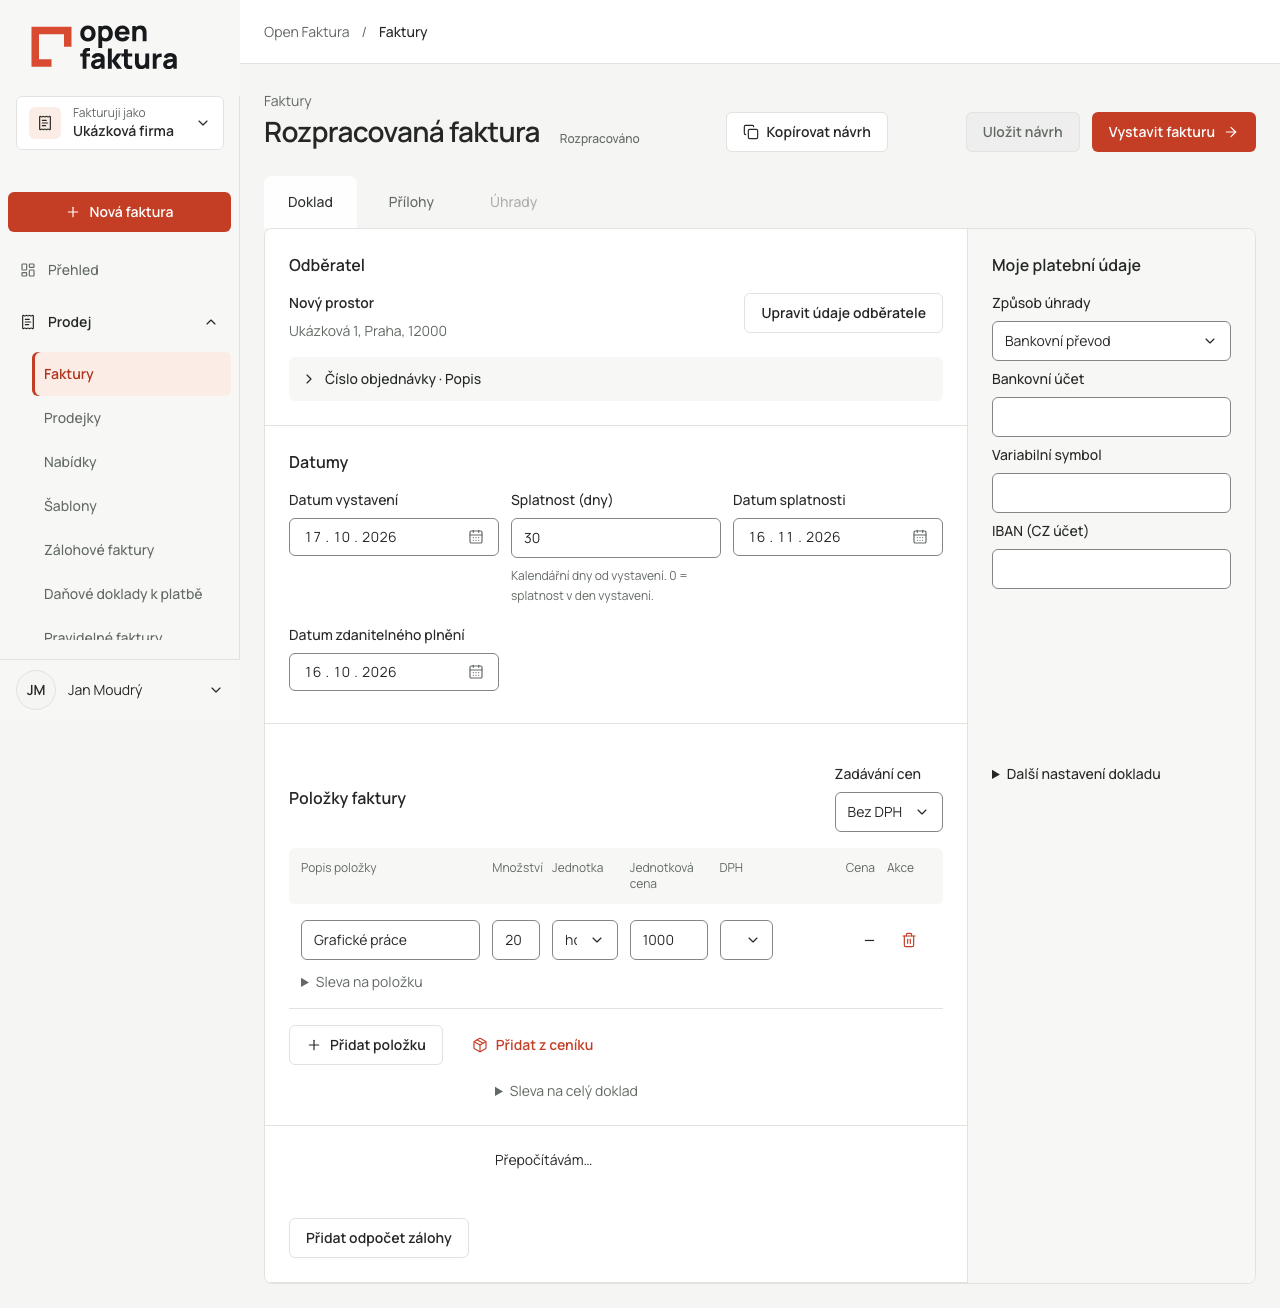
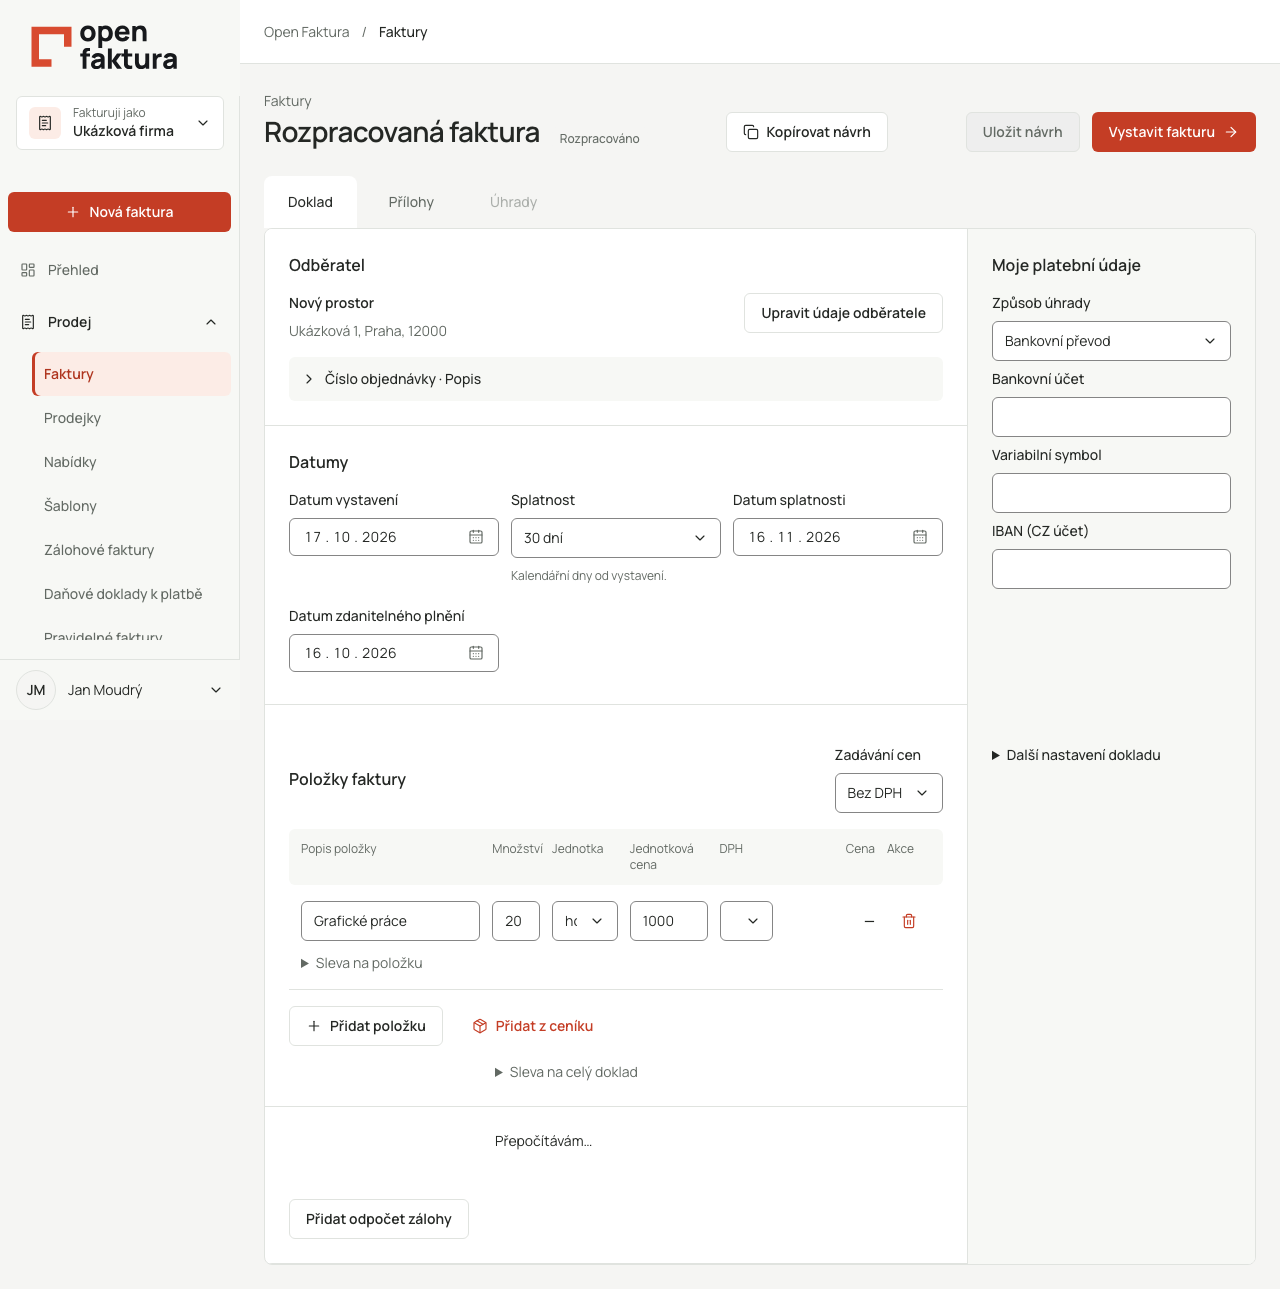
feat(web): choose invoice maturity from presets or a custom date

diff --git a/tests/e2e/redesign.spec.ts b/tests/e2e/redesign.spec.ts
@@ -55,10 +55,16 @@ for (const language of ["cs", "en"] as const) {
     );
     await page.goto("/#/companies/design/invoices/draft");
     stored = await (await response).json();
-    const days = page.getByRole("spinbutton", {
-      name: language === "cs" ? "Splatnost (dny)" : "Payment due in (days)",
-      exact: true,
+    const terms = page.getByRole("button", {
+      name: language === "cs" ? /Splatnost$/ : /Payment terms$/,
     });
+    const custom = language === "cs" ? "Vlastní datum" : "Custom date";
+    const preset = (days: number) =>
+      `${days} ${language === "cs" ? "dní" : "days"}`;
+    const choose = async (name: string) => {
+      await terms.click();
+      await page.getByRole("option", { name, exact: true }).click();
+    };
     const issued = page.locator(".ui-selection").filter({
       has: page.getByText(
         language === "cs" ? "Datum vystavení" : "Issue date",
@@ -70,22 +76,30 @@ for (const language of ["cs", "en"] as const) {
         exact: true,
       }),
     });
-    await expect(days).toHaveValue("14");
-    await days.fill("30");
+    await expect(terms).toContainText(preset(14));
+    await terms.click();
+    await expect(page.getByRole("option")).toHaveCount(6);
+    for (const days of [7, 14, 21, 30, 60])
+      await expect(
+        page.getByRole("option", { name: preset(days), exact: true }),
+      ).toBeVisible();
+    await page.getByRole("option", { name: preset(30), exact: true }).click();
     // October → November also crosses the Prague daylight-saving transition.
     await expect(due.getByRole("spinbutton").nth(0)).toHaveText("15");
     await expect(due.getByRole("spinbutton").nth(1)).toHaveText("11");
     await issued.getByRole("spinbutton").nth(0).press("ArrowUp");
-    await expect(days).toHaveValue("30");
+    await expect(terms).toContainText(preset(30));
     await expect(due.getByRole("spinbutton").nth(0)).toHaveText("16");
     await due.getByRole("spinbutton").nth(0).fill("20");
-    await expect(days).toHaveValue("34");
-    await days.fill("0");
-    await expect(due.getByRole("spinbutton").nth(0)).toHaveText("17");
-    await expect(due.getByRole("spinbutton").nth(1)).toHaveText("10");
-    await days.fill("");
-    await expect(days).toHaveValue("");
-    await days.fill("30");
+    await expect(terms).toContainText(custom);
+    // Manual entry stays custom even when it happens to match a preset.
+    await due.getByRole("spinbutton").nth(0).fill("16");
+    await expect(terms).toContainText(custom);
+    await choose(preset(30));
+    await expect(terms).toContainText(preset(30));
+    await choose(custom);
+    await expect(due.getByRole("spinbutton").nth(0)).toHaveText("16");
+    await choose(preset(30));
     await page
       .getByRole("button", {
         name: language === "cs" ? "Uložit návrh" : "Save draft",
@@ -103,7 +117,7 @@ for (const language of ["cs", "en"] as const) {
     expect(stored!.data.issued_on).toBe("2026-10-17");
     expect(stored!.data.due_on).toBe("2026-11-16");
     await page.reload();
-    await expect(days).toHaveValue("30");
+    await expect(terms).toContainText(preset(30));
     if (language === "cs" && info.project.name === "desktop")
       await page.screenshot({
         path: "docs/design/redesign-2026-10-17/invoice-maturity-days.png",
@@ -113,16 +127,16 @@ for (const language of ["cs", "en"] as const) {
     stored!.data.issued_on = "2028-02-28";
     stored!.data.due_on = "2028-03-13";
     await page.reload();
-    await expect(days).toHaveValue("14");
-    await days.fill("1");
-    await expect(due.getByRole("spinbutton").nth(0)).toHaveText("29");
-    await expect(due.getByRole("spinbutton").nth(1)).toHaveText("02");
+    await expect(terms).toContainText(preset(14));
+    await choose(preset(7));
+    await expect(due.getByRole("spinbutton").nth(0)).toHaveText("06");
+    await expect(due.getByRole("spinbutton").nth(1)).toHaveText("03");
     stored!.data.issued_on = "2026-12-31";
     stored!.data.due_on = "2027-01-14";
     await page.reload();
-    await expect(days).toHaveValue("14");
-    await days.fill("1");
-    await expect(due.getByRole("spinbutton").nth(0)).toHaveText("01");
+    await expect(terms).toContainText(preset(14));
+    await choose(preset(7));
+    await expect(due.getByRole("spinbutton").nth(0)).toHaveText("07");
     await expect(due.getByRole("spinbutton").nth(1)).toHaveText("01");
     await expect(due.getByRole("spinbutton").nth(2)).toHaveText("2027");
   });

diff --git a/apps/web/src/components/molecules/InvoicePaymentDates.tsx b/apps/web/src/components/molecules/InvoicePaymentDates.tsx
@@ -1,4 +1,5 @@
-import { DatePicker, Field } from "@open-faktura/ui";
+import { useState } from "react";
+import { DatePicker, Select } from "@open-faktura/ui";
 import { useAppTranslation } from "../../locales";
 import { addDays } from "../../utils/invoice";
 
@@ -18,6 +19,8 @@ export function InvoicePaymentDates({
   }) => void;
 }) {
   const { t } = useAppTranslation();
+  const [custom, setCustom] = useState(false);
+  const presets = [7, 14, 21, 30, 60];
   const days =
     issuedOn && dueOn
       ? Math.round(
@@ -41,27 +44,27 @@ export function InvoicePaymentDates({
           });
         }}
       />
-      <Field
-        label={t("maturityDays")}
+      <Select
+        label={t("draftMaturity")}
         hint={t("draftMaturityHint")}
-        type="number"
-        min={0}
-        step={1}
         disabled={disabled || !issuedOn}
-        value={days ?? ""}
-        onChange={(event) => {
-          if (!issuedOn) return;
-          if (event.target.value === "") {
-            onChange({ issued_on: issuedOn, due_on: null });
-            return;
-          }
-          const next = event.target.valueAsNumber;
-          const maximum = Math.floor(
-            (Date.parse("9999-12-31T12:00:00Z") -
-              Date.parse(`${issuedOn}T12:00:00Z`)) /
-              86400000,
-          );
-          if (!Number.isSafeInteger(next) || next < 0 || next > maximum) return;
+        value={
+          !custom && days !== null && presets.includes(days)
+            ? String(days)
+            : "custom"
+        }
+        options={[
+          ...presets.map((days) => ({
+            value: String(days),
+            label: t("draftMaturityDays", { days }),
+          })),
+          { value: "custom", label: t("draftMaturityCustom") },
+        ]}
+        onChange={(value) => {
+          setCustom(value === "custom");
+          if (!issuedOn || value === "custom") return;
+          const next = Number(value);
+          if (!presets.includes(next)) return;
           const due_on = addDays(issuedOn, next);
           if (due_on.length === 10) onChange({ issued_on: issuedOn, due_on });
         }}
@@ -70,9 +73,10 @@ export function InvoicePaymentDates({
         label={t("draftDue")}
         value={dueOn ?? ""}
         disabled={disabled}
-        onChange={(value) =>
-          onChange({ issued_on: issuedOn, due_on: value || null })
-        }
+        onChange={(value) => {
+          setCustom(true);
+          onChange({ issued_on: issuedOn, due_on: value || null });
+        }}
       />
     </>
   );

diff --git a/docs/specs/invoice-drafts.md b/docs/specs/invoice-drafts.md
@@ -35,21 +35,25 @@ Automatické sloučení změn ani tiché přepsání nejsou součástí P06.
 
 Vlastní UX pravidlo Open Faktury podle požadavku uživatele, 17. 10. 2026;
 nejde o tvrzení shody s iDokladem. Editor nabízí současně datum splatnosti
-a počet kalendářních dní od vystavení. Obě pole upravují stejné `due_on`:
-změna dní dopočítá datum, ruční datum přepočítá zobrazené dny. Změna data
+a výběr předvoleb 7, 14, 21, 30 a 60 kalendářních dní od vystavení.
+Volba předvolby dopočítá `due_on`. Ruční změna data přepne výběr na
+„Vlastní datum“, i když datum odpovídá předvolbě. Volba „Vlastní datum“
+ponechá aktuální datum a umožní jeho ruční úpravu. Změna data
 vystavení při vyplněných obou datech zachová jejich odstup. Výběr kontaktu
 nebo šablony dál použije jejich stávající předvolbu.
 
-Nula znamená splatnost v den vystavení; zadávají se celá nezáporná čísla.
-Vymazání dní vymaže datum splatnosti, neúplný návrh lze nadále uložit.
-Bez data vystavení je vstup dní nedostupný, datum lze stále zadat přímo.
-Počet dní je odvozený v UI; API, databáze i PDF používají dosavadní datum,
-serverová pravidla vystavení se nemění. Po načtení návrhu se počet dní znovu
-odvodí z uložených dat. Počítají se kalendářní dny bez vlivu letního času.
+Splatnost v den vystavení i jakýkoli jiný odstup se zadá vlastním datem.
+Datum lze vymazat a neúplný návrh nadále uložit. Bez data vystavení je
+výběr předvoleb nedostupný, datum lze stále zadat přímo.
+Předvolba je odvozená v UI; API, databáze i PDF používají dosavadní datum,
+serverová pravidla vystavení se nemění. Po načtení návrhu se předvolba znovu
+odvodí z uložených dat; při jiném odstupu je vybrané vlastní datum.
+Volba režimu se zvlášť neukládá. Počítají se kalendářní dny bez vlivu letního času.
 
 Akceptační regrese v `tests/e2e/redesign.spec.ts` se syntetickým API:
-CS/EN, změny dní a obou dat, nula, vymazání, přechod měsíce/roku, přestupný
-den a přechod letního času, zápis existujícího `due_on` a obnovení stránky.
+CS/EN, nabídka pěti předvoleb a vlastní volby, změny obou dat a přepnutí na vlastní
+datum, přechod měsíce/roku, přestupný rok a přechod letního času,
+zápis existujícího `due_on` a obnovení stránky.
 Ověřeno v Chromiu a WebKitu i mobilním viewportu; tato UI regrese nenahrazuje
 databázové testy návrhů P06.
 

diff --git a/docs/FEATURE_CHECKLIST.md b/docs/FEATURE_CHECKLIST.md
@@ -8,7 +8,7 @@ Zaškrtnutí znamená implementaci v uvedeném rozsahu, nikoli úplnou shodu s i
 
 - [x] Vlastní logo a rumělková vizuální identita, společné tokeny a komponenty.
 - [x] Responzivní shell, Přehled a seznam/editor faktur; CS/EN, světlý a tmavý režim.
-- [x] INV-DUE-DAYS-01: splatnost faktury počtem kalendářních dní i přímým datem, obousměrný přepočet a zachování odstupu při změně vystavení ([pravidla](specs/invoice-drafts.md#inv-due-days-01--zadání-splatnosti-ve-dnech)).
+- [x] INV-DUE-DAYS-01: splatnost faktury výběrem 7/14/21/30/60 dní nebo vlastním datem, zachování odstupu při změně vystavení ([pravidla](specs/invoice-drafts.md#inv-due-days-01--zadání-splatnosti-ve-dnech)).
 - [x] Přehled používá existující API; chybějící data nenahrazuje ukázkovými hodnotami.
 
 [Rozsah, snímky a limity ověření](design/redesign-2026-10-17/README.md)

diff --git a/README.md b/README.md
@@ -14,7 +14,7 @@ Banka podporuje [počáteční stavy a saldo za období](docs/specs/bank-balance
 - Založení správce, přihlášení, nastavení účtu a více oddělených fakturačních profilů.
 - Adresář odběratelů s doplněním údajů z ARES.
 - Návrh faktury → vystavení a číslování → PDF s QR platbou → e-mail → ruční úhrada.
-- Splatnost faktury zadaná datem nebo počtem kalendářních dní od vystavení.
+- Splatnost faktury výběrem 7, 14, 21, 30 nebo 60 dní od vystavení, případně vlastním datem.
 - Ceník, opakovaně použitelné šablony a cenové nabídky s převodem na fakturu.
 - Veřejné odkazy na nabídky i faktury, odvolání odkazu a historie zobrazení.
 - Bankovní účty v CZK, import CSV s kontrolou duplicit a ruční párování úhrad.
